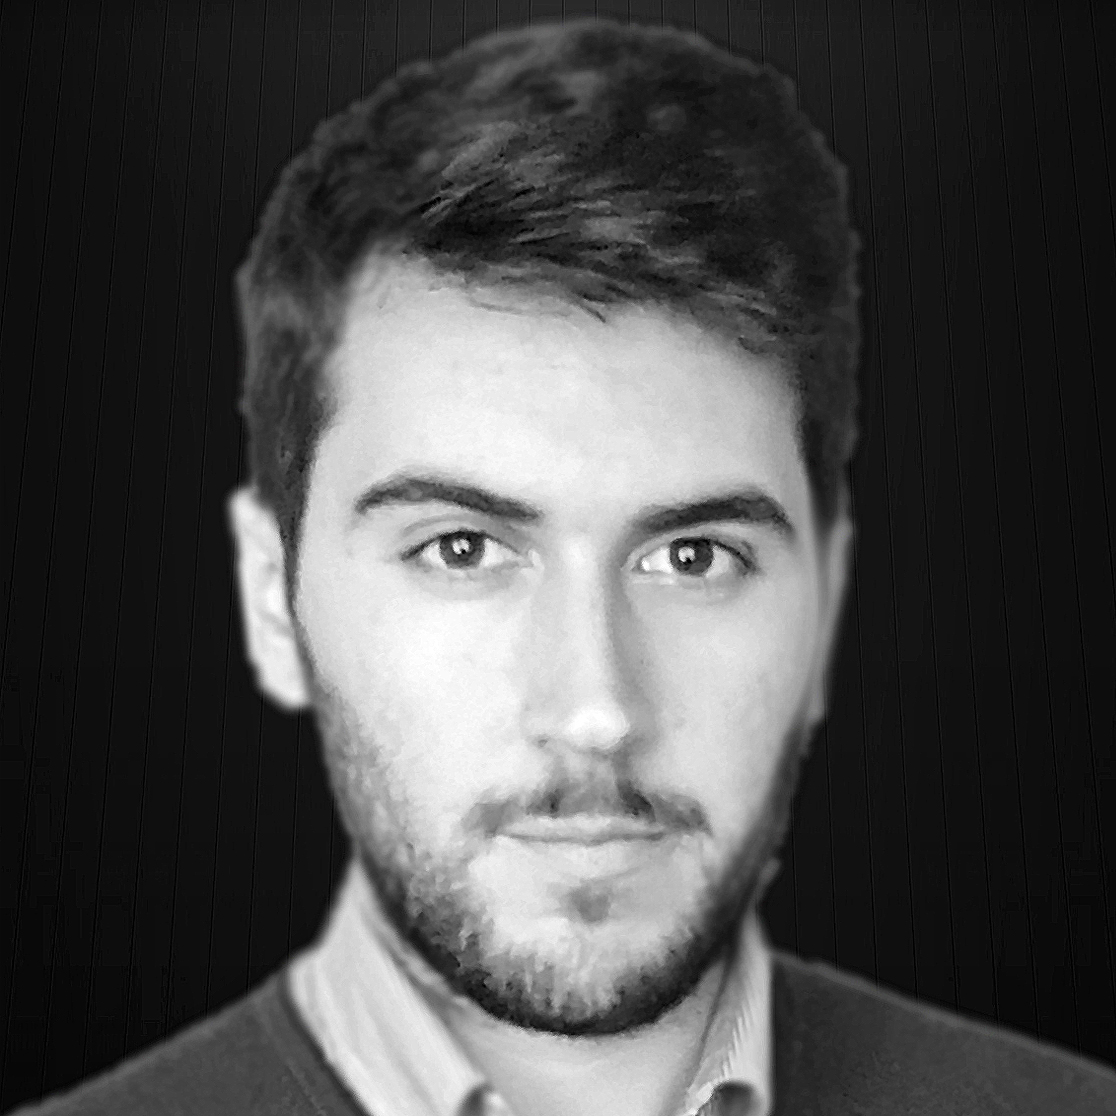
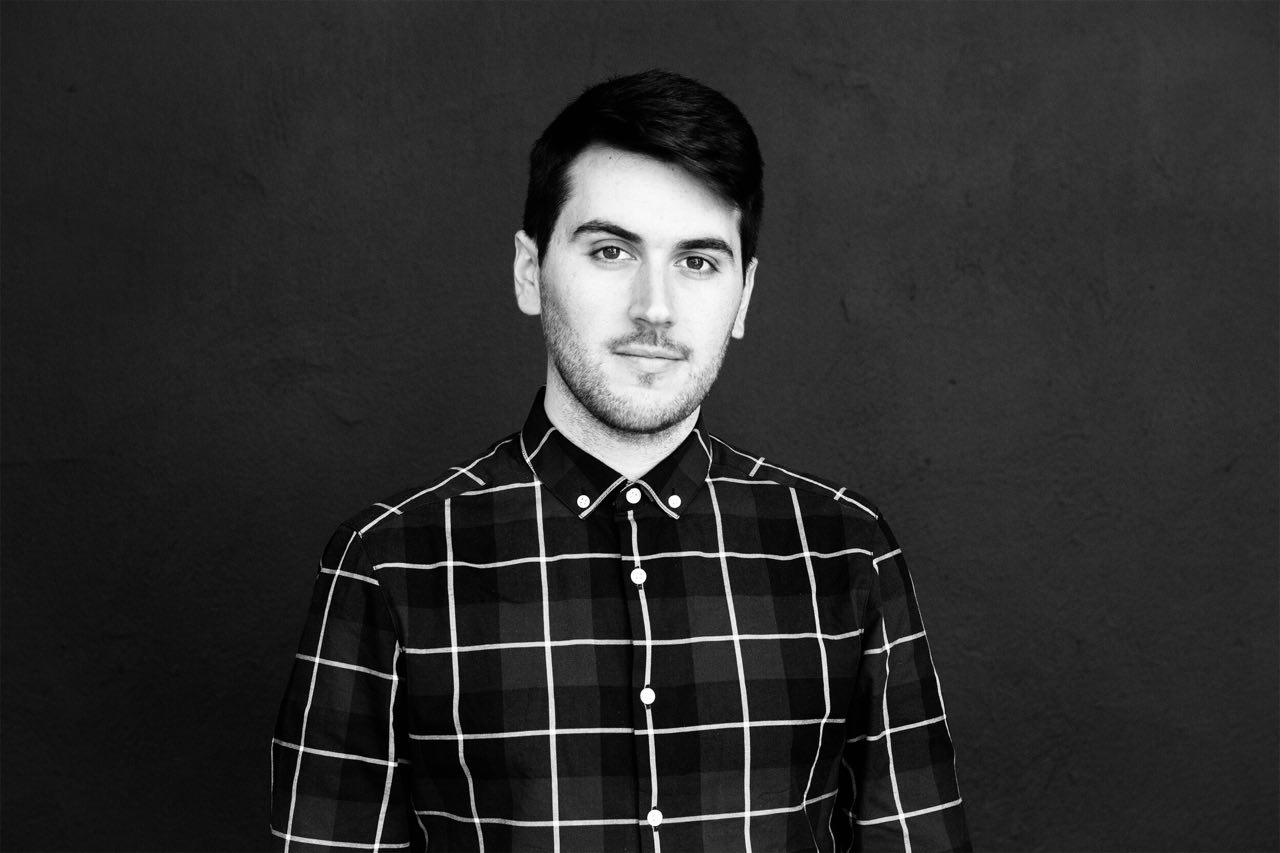
New profile picture, minor redesign for some elements. Better responsive

diff --git a/views/navbar.html b/views/navbar.html
@@ -1,6 +1,6 @@
 <nav class="navbar navbar-expand-lg navbar-dark bg-greyblack" data-aos="fade-down" data-aos-delay="1300" data-aos-duration="500">
     <a class="navbar-brand d-flex align-items-center robotoMono" href="#pageTop">
-      &nbsp;<img src="img/web/jpg.jpg" width="28" height="28" alt="" style="border-radius: 50%">&nbsp;JPGG&nbsp;
+      &nbsp;<img src="img/accountwhite.png" width="28" height="28" alt="" style="border-radius: 50%; object-fit: cover;">&nbsp;JPGG&nbsp;
     </a>
     <button class="navbar-toggler collapsed" style="border-color: transparent !important;" type="button" data-toggle="collapse"
       data-target="#navbarsExample05" aria-controls="navbarsExample05" aria-expanded="false" aria-label="Toggle navigation">
@@ -23,12 +23,12 @@
         </li>
       </ul>
       <form class="form-inline my-2 my-md-0 d-flex align-items-center">
-        <a class="nav-logo" target="blank_" href="http://www.infojobs.net/juanpablo-gonzalez-8.prf">&nbsp;&nbsp;
-        	<img src="img/infojobs.png" width="43%" height="43%" alt="Mi perfil de InfoJobs"></a>
+        <!--<a class="nav-logo" target="blank_" href="#">&nbsp;&nbsp;
+        	<img src="img/infojobs.png" width="43%" height="43%" alt="Mi perfil de InfoJobs"></a>-->
         <a class="nav-logo" target="blank_" href="https://www.linkedin.com/in/juan-pablo-gonzalez-gonzalez">
-        	<img src="img/linkedin.png" width="58%" height="58%" alt="Sígueme en LinkedIn"></a>
+        	<img src="img/linkedin.png" width="58%" height="58%"></a>
         <a class="nav-logo" target="blank_" href="https://github.com/juanpag94">
-        	<img src="img/github-circle.png" width="58%" height="58%" alt="Mi perfil de GitHub"></a>
+        	<img src="img/github-circle.png" width="58%" height="58%"></a>
         <!--<a class="nav-logo" href="#"><img src="img/instagram.png" width="58%" height="58%"
             alt="Sígueme en Instagram"></a>-->
       </form>

diff --git a/css/main.css b/css/main.css
@@ -186,15 +186,43 @@ body{
 }
 
 .profilePicture {
-  border-radius: 50%; 
-  box-shadow: 0 4px 8px 0 rgba(0, 0, 0, 0.2), 0 6px 20px 0 rgba(0, 0, 0, 0.19);
+  border-radius: 0.25em;
+  box-shadow: 0 4px 8px 0 rgba(0, 0, 0, 0.2), 0 6px 20px 0 rgba(0, 0, 0, 0.2);
+  object-fit: cover;
+  width: 308px;
+  height: 175px;
+  -o-transition:.3s;
+  -ms-transition:.3s;
+  -moz-transition:.3s;
+  -webkit-transition:.3s;
+  transition:.3s;
+}
+
+.profilePicture:hover{
+  border-radius: 0.25em;
+  box-shadow: 0 4px 8px 0 rgba(0, 0, 0, 0.2), 0 6px 20px 0 rgba(0, 0, 0, 0.5);
+  object-fit: cover;
+  width: 308px;
+  height: 308px;
+  -o-transition:.3s;
+  -ms-transition:.3s;
+  -moz-transition:.3s;
+  -webkit-transition:.3s;
+  transition:.3s;
+}
+
+@media (max-width: 568px){
+  .profilePicture{
+    width: 285px;
+    height: 160px;
+  }
+  .profilePicture:hover{
+    width: 285px;
+    height: 285px;
+  }
 }
 
 @media (max-width: 768px){
-  .profilePicture{
-    height: 35%;
-    width: 35%;
-  }
   .scrollDown{
     height: 30% !important;
     width: 30% !important;
@@ -204,7 +232,6 @@ body{
   	width: unset !important;
   }
   #presentation{
-    padding-top: 4% !important;
     text-align: center !important;
   }
   #desktopText{
@@ -213,10 +240,10 @@ body{
 }
 
 .modal-content {
-  border-top-left-radius: 10px;
-  border-top-right-radius: 10px;
-  border-bottom-left-radius: 10px;
-  border-bottom-right-radius: 10px;
+  border-top-left-radius: 1em;
+  border-top-right-radius: 1em;
+  border-bottom-left-radius: 1em;
+  border-bottom-right-radius: 1em;
 }
 
 .row{

diff --git a/views/timeline.html b/views/timeline.html
@@ -15,8 +15,8 @@
             <div class="timeline-marker"></div>
             <div class="timeline-content">
               <h4 class="timeline-title robotoMono">Full Stack Developer</h4>
-              <p><b>Z1 Digital · Sevilla(España)</b><br>
-                Actualmente trabajo como desarrollador en Z1 Digital, creando productos digitales adaptados a las necesidades de nuestros clientes de Norteamérica, con las tecnologías más punteras y el mejor enfoque en cuanto a diseño. Python, Django, JavaScript, HTML, CSS, VueJS, entre otras.</p>
+              <p><b>Z1 Digital Studio · Sevilla(España)</b><br>
+                Actualmente trabajo como Full Stack Developer en Z1, creando productos digitales adaptados a las necesidades de nuestros clientes de Norteamérica, con las tecnologías más punteras y el mejor enfoque en cuanto a diseño y experiencia de usuario. Python, Django, JavaScript, HTML, CSS, VueJS, entre otras.</p>
             </div>
           </li>
         <li class="timeline-item">

diff --git a/index.html b/index.html
@@ -96,10 +96,9 @@
           </div>
 
         </div>
-        <br>
     </section>
 
-    <div class="album bg-light">
+    <div class="album">
       <div class="container-mySkills d-flex justify-content-center text-center" style="padding:4%; padding-bottom:1%;">
 
         <div style="padding-right:2%; padding-left:2%; pointer-events: none;" data-aos="zoom-in" data-aos-delay="80" data-aos-duration="1200">
@@ -138,12 +137,12 @@
           <p class="mySkills-desc">Siempre aprendiendo las<br>mejores técnicas.</p>
         </div>
     </div>
+    <br>
     </div>
 
     <div class="album bg-light">
       <div class="container scrollspy" id="sobremi">
-        <br>
-        <hr><br>
+        <br><br>
         <h1 class="jumbotron-heading text-center">
           <span class="sectionHeadline">SOBRE MÍ</span></h1>
         <p class="text-muted text-center"><span class="robotoMono"><b>Este soy yo, las cosas que me gustan y qué sé hacer.</b></span></p><br>
